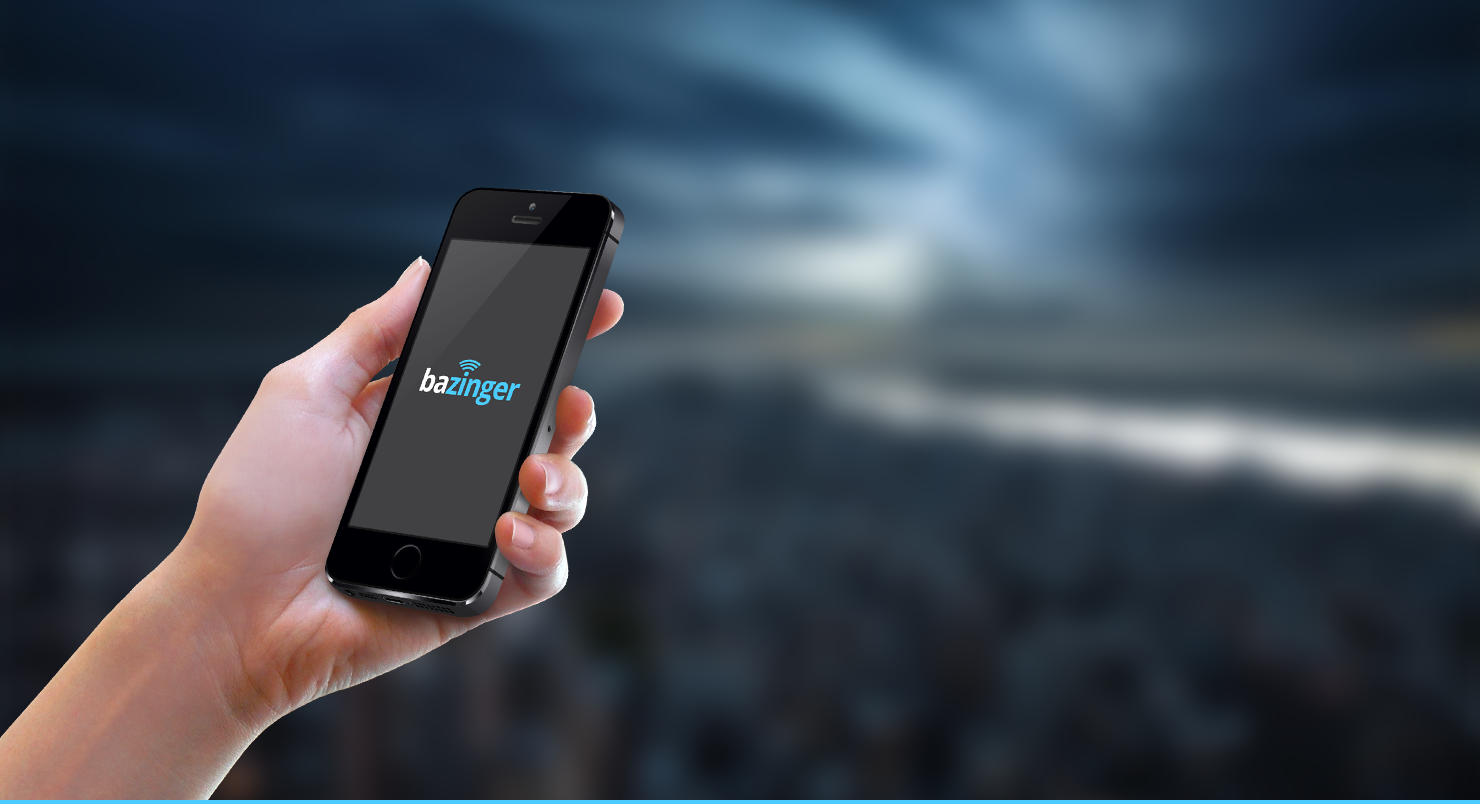
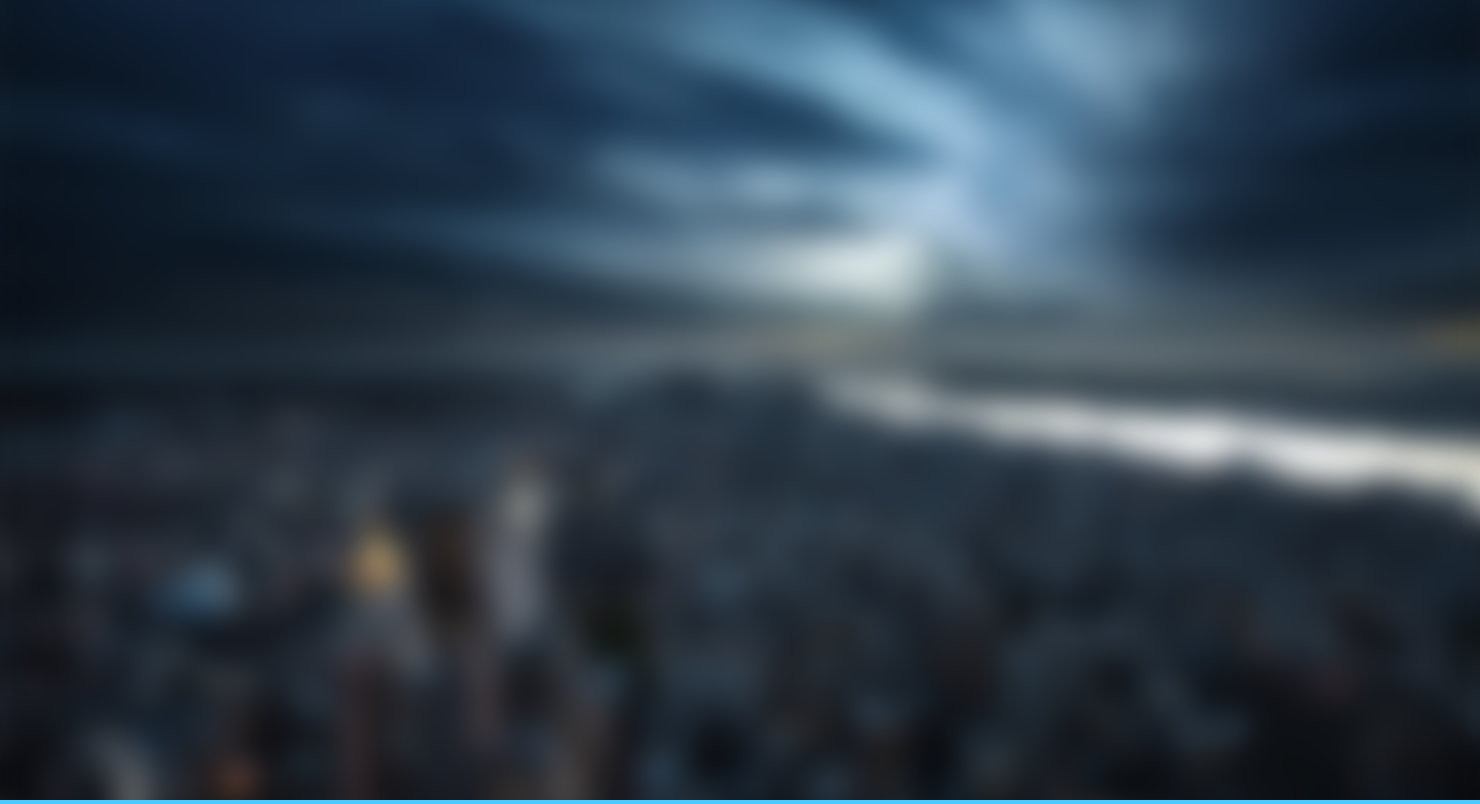
ne navbar

Changed region(s): [[0.0, 0.2177, 0.4351, 0.995]]

diff --git a/index.html b/index.html
@@ -1,90 +1,47 @@
 <!DOCTYPE html>
 <html lang="en">
-  <head>
-    <meta charset="UTF-8" />
-    <meta http-equiv="X-UA-Compatible" content="IE=edge" />
-    <meta name="viewport" content="width=device-width, initial-scale=1.0" />
-    <title>Bazinger</title>
-    <!-- font link -->
-    <link rel="preconnect" href="https://fonts.googleapis.com" />
-    <link rel="preconnect" href="https://fonts.gstatic.com" crossorigin />
-    <link
-      href="https://fonts.googleapis.com/css2?family=Grape+Nuts&family=Open+Sans:wght@400;700;800&display=swap"
-      rel="stylesheet"
-    />
-    <link href="https://fonts.googleapis.com/css2?family=Grape+Nuts&family=Lato:wght@300;700&family=Open+Sans:wght@400;700;800&display=swap" rel="stylesheet">
+<head>
+  <meta charset="UTF-8">
+  <meta http-equiv="X-UA-Compatible" content="IE=edge">
+  <meta name="viewport" content="width=device-width, initial-scale=1.0">
+  <title>Bazinger</title>
+  <!-- GOOGLE FONT start -->
+  <link rel="preconnect" href="https://fonts.googleapis.com">
+<link rel="preconnect" href="https://fonts.gstatic.com" crossorigin>
+<link href="https://fonts.googleapis.com/css2?family=Lato:wght@300;400;700&display=swap" rel="stylesheet">
+  <!-- GOOGLE FONT end -->
+  
+  <!-- 'MAIN CSS LINK start' -->
+  <link rel="stylesheet" href="css/style.css">
+  <!-- 'MAIN CSS LINK end' -->
 
-    <!--  css link start -->
-    <link rel="stylesheet" href="css/style.css">
-    <!--  css link end -->
-
-  </head>
-  <body>
-    <!-- Navbar start -->
-    <nav id="navbar">
-      <div class="container">
-        <div class="row">
-          <div class="logo">
-            <a href="#">
-              <img src="./images/logo.png" alt="Bazinger" />
-            </a>
-          </div>
-          <div class="menu-list">
-            <ul>
-              <li>
-                <a href="#">Home</a>
-              </li>
-              <li>
-                <a href="#">Feature</a>
-              </li>
-              <li>
-                <a href="#">Gallery</a>
-              </li>
-              <li>
-                <a href="#">Video</a>
-              </li>
-              <li>
-                <a href="#">Prices</a>
-              </li>
-              <li>
-                <a href="#">Testimonials</a>
-              </li>
-              <li>
-                <a href="#">Download</a>
-              </li>
-              <li>
-                <a href="#">Contact</a>
-              </li>
-            </ul>
-          </div>
+</head>
+<body>
+  <!-- NAVBAR start here -->
+  <nav id="navbar">
+    <div class="container">
+      <div class="row">
+        <div class="logo">
+          <a href="index.html">
+            <img src="images/logo.png" alt="Bazinger">
+          </a>
+        </div>
+        <div class="menu">
+          <ul>
+            <li><a href=""> home </a></li>
+            <li><a href=""> features </a></li>
+            <li><a href=""> gallary </a></li>
+            <li><a href=""> video </a></li>
+            <li><a href=""> prices </a></li>
+            <li><a href=""> testiomonials </a></li>
+            <li><a href=""> download </a></li>
+            <li><a href=""> contact </a></li>
+          </ul>
         </div>
       </div>
-    </nav>
-    <!-- Navbar End -->
-    <!-- Banner part start -->
-    <section id="banner">
-      <div class="container">
-        <div class="banner-part">
-          <div class="introductory">
-            <h1>
-              Simple, Beautiful <span>and Amazing</span>
-            </h1>
-            <p>
-              Lorem ipsum dolor sit amet, consectetur adipiscing elit. Nunc eget nunc vitae tellus luctus ullamcorper. Nam porttitor ullamcorper felis at convallis. Aenean ornare vestibulum nisi fringilla lacinia. Nullam pulvinar sollicitudin velit id laoreet. Quisque non rhoncus sem.
-            </p>
-          </div>
-          <div class="button">
-            <div class="download">
-              <button>Download</button>
-            </div>
-            <div class="learn-more">
-              <button>Learn more</button>
-            </div>
-          </div>
-        </div>
-      </div>
-    </section>
-    <!-- Banner part end -->
+    </div>
+  </nav>
+  <!-- NAVBAR end here -->
 
-  </body>
+</body>
 </html>

diff --git a/css/style.css b/css/style.css
@@ -1,112 +1,63 @@
 *{
   margin: 0;
-  padding: 0;
+  position: 0;
   outline: 0;
   box-sizing: border-box;
 }
 body{
-  font-family: 'lato', sans-serif;
+  font-family: 'Lato', sans-serif;
 }
 ul,ol{
-  list-style: none;
+  list-style-type: none;
 }
 a{
   text-decoration: none;
 }
-#navbar{
-  height: 100px;
-  background-color: #131e29;
-}
 .container{
   width: 1170px;
-  margin: 0 auto 0 auto;
+  margin: 0 auto;
 }
 .row{
   display: flex;
   flex-wrap: wrap;
 }
-#navbar .container .logo{
-  width: 30%;
-  display:block;
+/* navbar css start */
+#navbar{
+  background-color: #131e29;
 }
-#navbar .container .logo a{
- display: block;
-}
-#navbar .logo a img{
-  padding: 15px 0 0 0;
-  display: inline-block;
-}
-#navbar .container .menu-list{
-  width: 70%;
-}
-#navbar .container .menu-list ul{
-  text-align: right;
-}
-#navbar .container .menu-list ul li{
-  display: inline-block;
-}
-#navbar .container .menu-list ul li a{
-  padding: 41px 13px;
+/* logo part */
+#navbar .logo{
+  width: 25%;
   display: block;
-  color: #fff;
-  font-size: 13px;
-  font-weight: 800;
 }
-#navbar .menu-list ul li:first-child a{
-  color: #45b9ea;
-}
-
-#navbar .menu-list ul li:hover a{
-  color: #45b9ea;
-  transition: all ease 0.4s;
-}
-#banner{
-  min-height:702px;
-  background-image: url("../images/banner.png");
-}
-.banner-part{
-  margin-left: 567px;
-  padding-top: 342px;
-}
-.banner-part .introductory{
-  color: #fff;
-}
-.banner-part .introductory h1{
-  font-size: 46px;
-  font-weight: 300;
-}
-.banner-part .introductory h1 span{
-  font-weight: 700;
-}
-.banner-part .introductory p{
-  margin-top: 33px;
-  font-size: 16px;
-  font-weight: 300;
-}
-.banner-part .button{
-  margin-top: 44px;
-  text-transform: uppercase;
-  display: flex;
-}
-.banner-part .button .download{
+#navbar .logo a{
   display: inline-block;
+  padding: 16px 0 32px 0;
 }
-.banner-part .button .learn-more{
-  margin-left: 40px;
+/* menu part */
+#navbar .menu{
+  width: 75%;
 }
-.banner-part .button .download button,
-.banner-part .button .learn-more button{
-  background-color: transparent;
-  color: #fff;
+#navbar .menu ul{
+  display: flex;
+  justify-content: flex-end;
+  align-items: center;
+}
+#navbar .menu ul li{
+  padding: 44px 18.5px 47px 18.5px;
+}
+#navbar .menu ul li a{
+  color: white;
+  text-transform: uppercase;
+  font-size: 13px;
   font-weight: 700;
-  font-size: 15px;
-  padding: 25px 50px;
-  border-radius: 8px;
-  border: 2px solid #fff;
 }
-.banner-part .button .download button:hover,
-.banner-part .button .learn-more button:hover{
-  background-color: #45b9ea;
-  border: 2px solid #45b9ea;
+#navbar .menu ul li:nth-child(1) a{
+  color: #42b1e0;
+}
+#navbar .menu ul li:hover a{
+  color: #42b1e0;
   transition: all linear 0.5s;
 }
+/* navbar css end */
+
